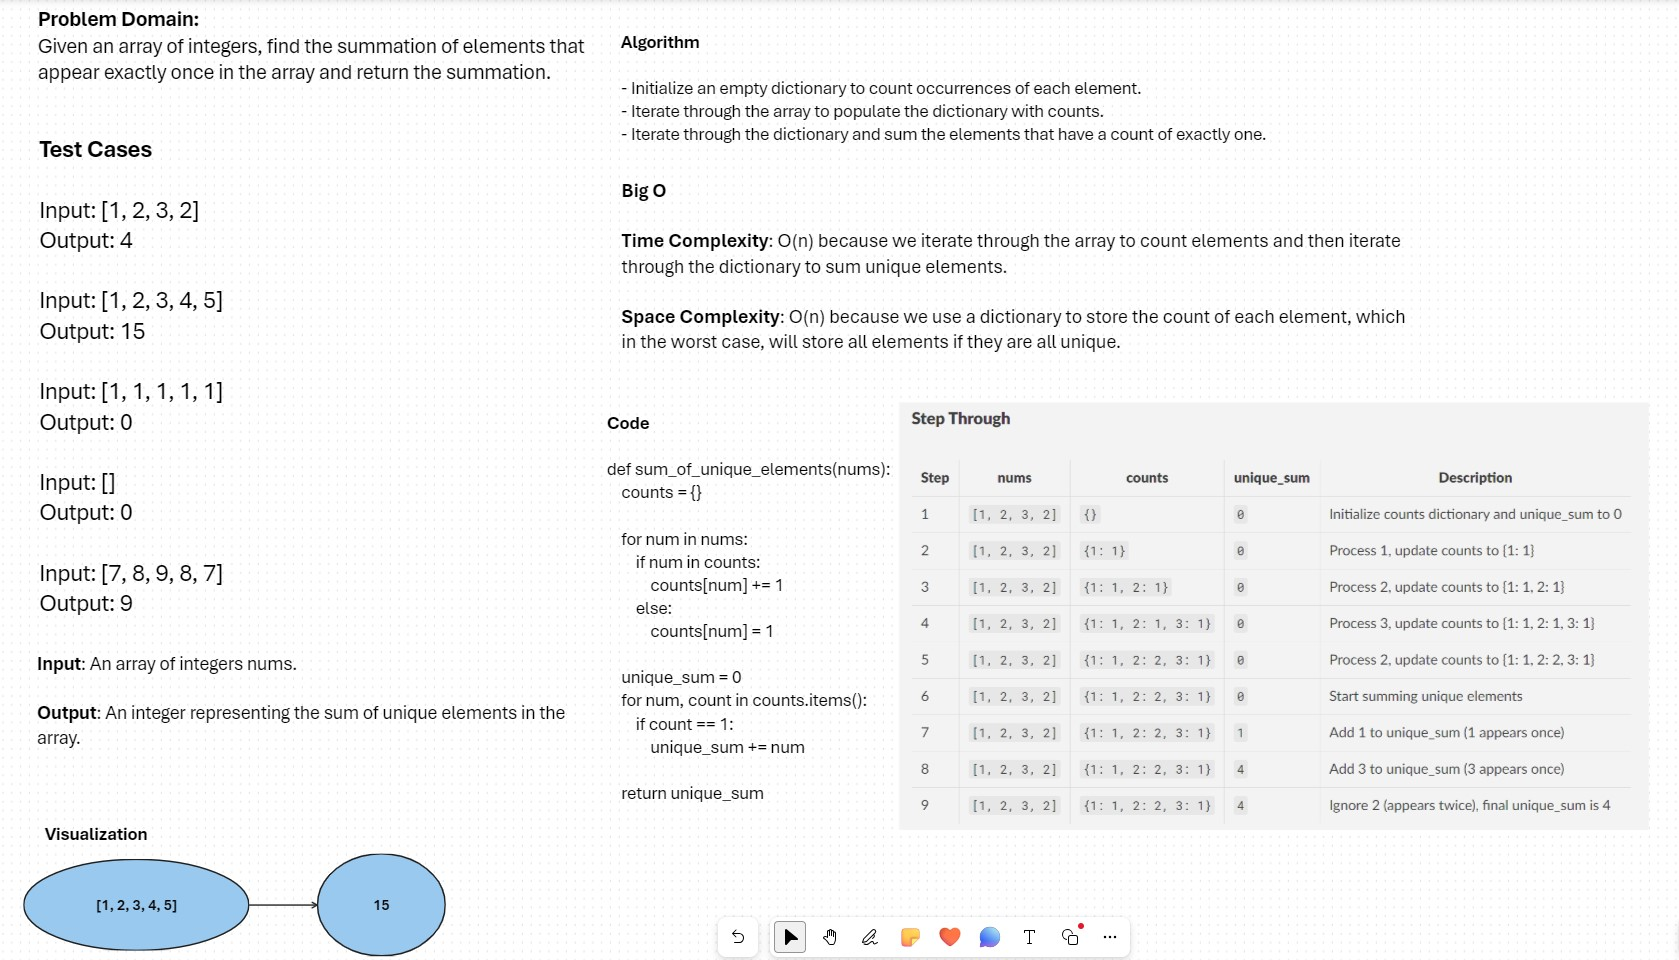
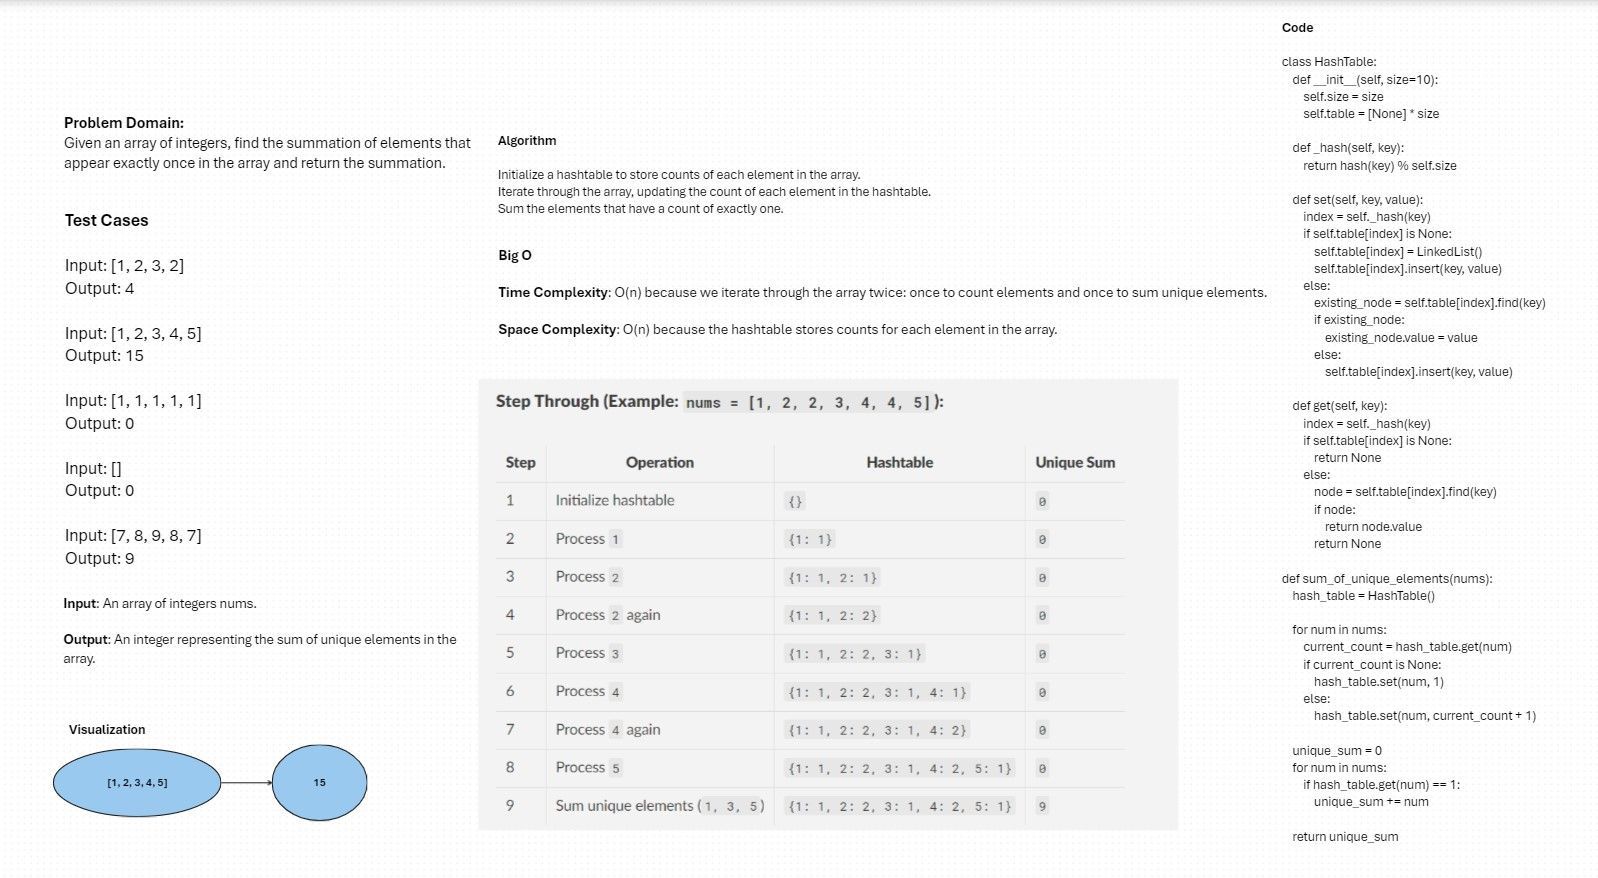
abc

diff --git a/python/code_challenges/hashtable/challenge03/challenge03.py b/python/code_challenges/hashtable/challenge03/challenge03.py
@@ -1,23 +1,126 @@
-# Write here the code challenge solution
-def sum_of_unique_elements(nums):
-    # Step 1: Create a dictionary to count occurrences
-    counts = {}
-    
-    # Step 2: Populate the dictionary with counts of each element
-    for num in nums:
-        if num in counts:
-            counts[num] += 1
+class Node:
+    def __init__(self, key, value):
+        """
+        Initializes a Node with the given key and value, and sets the next node to None.
+        """
+        self.key = key
+        self.value = value
+        self.next = None
+
+class LinkedList:
+    def __init__(self):
+        """
+        Initializes an empty LinkedList.
+        """
+        self.head = None
+
+    def insert(self, key, value):
+        """
+        Inserts a node with the given key and value into the LinkedList.
+        """
+        new_node = Node(key, value)
+        if not self.head:
+            self.head = new_node
         else:
-            counts[num] = 1
-    
-    # Step 3: Sum the elements that appear exactly once
+            current = self.head
+            while current.next:
+                current = current.next
+            current.next = new_node
+
+    def find(self, key):
+        """
+        Finds and returns the node with the given key in the LinkedList.
+        """
+        current = self.head
+        while current:
+            if current.key == key:
+                return current
+            current = current.next
+        return None
+
+    def __iter__(self):
+        """
+        Allows iteration over the LinkedList.
+        """
+        current = self.head
+        while current:
+            yield current
+            current = current.next
+
+class HashTable:
+    def __init__(self, size=10):
+        """
+        Initializes a HashTable with the specified size.
+        """
+        self.size = size
+        self.table = [None] * size
+
+    def _hash(self, key):
+        """
+        Generates a hash for the given key.
+        """
+        return hash(key) % self.size
+
+    def set(self, key, value):
+        """
+        Sets the key-value pair in the HashTable.
+        """
+        index = self._hash(key)
+        if self.table[index] is None:
+            self.table[index] = LinkedList()
+            self.table[index].insert(key, value)
+        else:
+            existing_node = self.table[index].find(key)
+            if existing_node:
+                existing_node.value = value
+            else:
+                self.table[index].insert(key, value)
+
+    def get(self, key):
+        """
+        Retrieves the value associated with the given key in the HashTable.
+        """
+        index = self._hash(key)
+        if self.table[index] is None:
+            return None
+        else:
+            node = self.table[index].find(key)
+            if node:
+                return node.value
+            return None
+
+def sum_of_unique_elements(nums):
+    """
+    Finds the summation of unique elements in the array using a HashTable.
+    """
+    hash_table = HashTable()
+
+    # Populate the hash table with the frequency of each element
+    for num in nums:
+        current_count = hash_table.get(num)
+        if current_count is None:
+            hash_table.set(num, 1)
+        else:
+            hash_table.set(num, current_count + 1)
+
+    # Sum the elements that appear exactly once
     unique_sum = 0
-    for num, count in counts.items():
-        if count == 1:
+    for num in nums:
+        if hash_table.get(num) == 1:
             unique_sum += num
-    
+
     return unique_sum
 
 # Test cases
-print(sum_of_unique_elements([1, 2, 3, 2]))  # Output: 4
-print(sum_of_unique_elements([1, 2, 3, 4, 5]))  # Output: 15
+if __name__ == "__main__":
+    nums_1 = [1, 2, 3, 2]  # Output: 4
+    nums_2 = [1, 2, 3, 4, 5]  # Output: 15
+    nums_3 = [1, 1, 2, 2, 3, 3]  # Output: 0
+    nums_4 = [1, 2, 2, 3, 4, 4, 5]  # Output: 9
+    nums_5 = [42]  # Output: 42
+
+    print(sum_of_unique_elements(nums_1))
+    print(sum_of_unique_elements(nums_2))
+    print(sum_of_unique_elements(nums_3))
+    print(sum_of_unique_elements(nums_4))
+    print(sum_of_unique_elements(nums_5))

diff --git a/python/code_challenges/hashtable/challenge03/test_challenge03.py b/python/code_challenges/hashtable/challenge03/test_challenge03.py
@@ -1,16 +1,36 @@
-# Write your test here
 import pytest
 from challenge03 import sum_of_unique_elements
 
-def test_sum_of_unique_elements():
-    # Test cases
-    assert sum_of_unique_elements([1, 2, 3, 2]) == 4
-    assert sum_of_unique_elements([1, 2, 3, 4, 5]) == 15
-    assert sum_of_unique_elements([1, 1, 1, 1, 1]) == 0  # No unique elements
-    assert sum_of_unique_elements([]) == 0  # Empty array
-    assert sum_of_unique_elements([7, 8, 9, 8, 7]) == 9  # Only one unique element
-    assert sum_of_unique_elements([1, 2, 2, 3, 3, 4, 5, 5]) == 5  # Multiple unique elements
-    assert sum_of_unique_elements([10, 10, 10, 20, 30, 40, 40, 50]) == 100  # Mixed unique and non-unique elements
+def test_sum_of_unique_elements_empty():
+    assert sum_of_unique_elements([]) == 0
 
+def test_sum_of_unique_elements_all_unique():
+    assert sum_of_unique_elements([1, 2, 3, 4, 5]) == 15
+
+def test_sum_of_unique_elements_no_unique():
+    assert sum_of_unique_elements([1, 1, 2, 2, 3, 3]) == 0
+
+def test_sum_of_unique_elements_some_unique():
+    assert sum_of_unique_elements([1, 2, 2, 3, 4, 4, 5]) == 9
+
+def test_sum_of_unique_elements_single_element():
+    assert sum_of_unique_elements([42]) == 42
+
+def test_sum_of_unique_elements_duplicates():
+    assert sum_of_unique_elements([7, 7, 7, 7, 7]) == 0
+
+def test_sum_of_unique_elements_mixed():
+    assert sum_of_unique_elements([1, 2, 3, 1, 2, 3, 4]) == 4
+
+def test_sum_of_unique_elements_negative_numbers():
+    assert sum_of_unique_elements([-1, -2, -3, -1, -2, -4]) == -7
+
+def test_sum_of_unique_elements_mixed_sign():
+    assert sum_of_unique_elements([-1, 1, -2, 2, -3, 3, -1, 1, -2, 2]) == 0
+
+def test_sum_of_unique_elements_zero_included():
+    assert sum_of_unique_elements([0, 1, 2, 0, 3, 2]) == 4
+
+# Running tests
 if __name__ == "__main__":
     pytest.main()

diff --git a/python/code_challenges/linkedlist/challenge04/challenge04.py b/python/code_challenges/linkedlist/challenge04/challenge04.py
@@ -91,4 +91,3 @@ linked_list.append(13)
 
 linked_list.get_status()
 linked_list.get_reverse()
-
